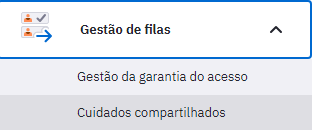
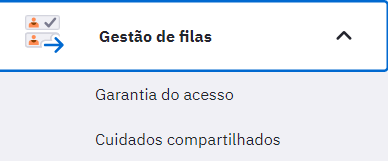
alterações textuais cuidado compartilhado
inclusão de textos

diff --git a/docs/PEC/PEC_14_compartilhamento_do_cuidado.md b/docs/PEC/PEC_14_compartilhamento_do_cuidado.md
@@ -48,6 +48,8 @@ Este relatório é dividido em duas listas:
 As listas têm informação de:
 - Data de início: Data que o caso foi compartilhado em um atendimento individual e iniciou o processo. 
 
+- Cidadão: Refere-se ao paciente que foi atendido.
+
 - Prioridade: Classificação do caso compartilhado feita pelo profissional no momento do atendimento individual que iniciou o processo.
 
 - Solicitante: Profissional que iniciou o processo de compartilhamento do cuidado no atendimento individual.
@@ -63,6 +65,10 @@ Há ainda dois ícones ao lado direito de cada uma das linhas da lista:
 {: .nota }
 O solicitante e o executante poderão fazer modificações na discussão do caso de forma alternada, isto é, ao responder uma discussão de caso, só será possível incluir novas informações quando for respondido pelo outro profissional.
 
+Na aba "Solicitados por mim" o usuário só poderá clicar em "Discutir caso" caso tenha solicitado aquele compartilhamento e caso o status seja "Respondido".
+
+Na aba "Compartilhados comigo" o usuário só poderá clicar em "Discutir caso" caso aquele compartilhamento tenha sido compartilhado com ele e caso o status seja "Aguardando".
+
 Há dois status possíveis nesta lista:
 - **Aguardando**: exibida para o profissional quando a última interação foi dele e o caso ainda aguarda interação por parte do outro profissional envolvido no compartilhamento. Abaixo desse status, para o solicitante, é exibido o total de horas que o caso está aguardando a interação do outro profissional. Este status fica na cor vermelha.
 
@@ -71,6 +77,10 @@ Há dois status possíveis nesta lista:
 - **Respondido**: exibido para o profissional logo depois que ele interagiu no caso. Este status fica na cor verde.
 
 ![](media/pec_image1118.png)
+
+Sempre que o status for "Aguardando" o sistema exibirá um contador de horas que exibirá há quantas horas aquela discussão está aguardando resposta.
+
+O botão "Visualizar discussão" poderá ser acessado por todos os profissionais de nível superior da equipe do profissional solicitante ou do profissional executante.
 
 ## 14.3 Discussão de caso
 
